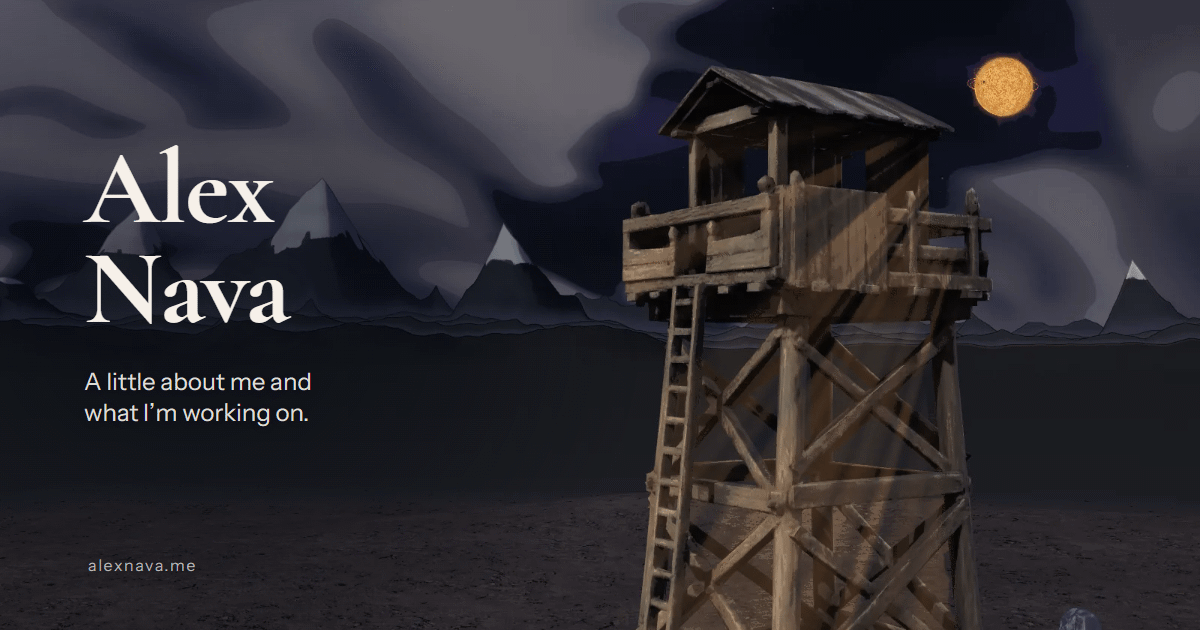
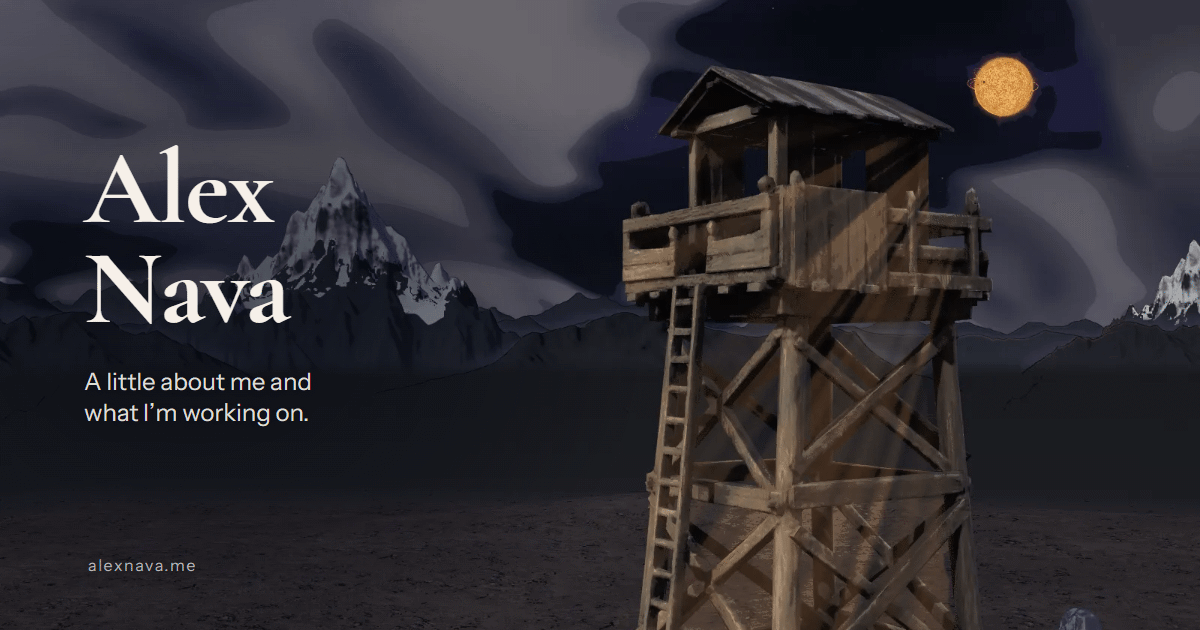
Re-render the share card from the Meshy mountains

diff --git a/tools/og-card.html b/tools/og-card.html
@@ -11,10 +11,10 @@
       --user-data-dir=<scratch>\edge-profile --screenshot=<scratch>\og-raw.png
       file:///<repo>/tools/og-card.html
     magick <scratch>\og-raw.png -alpha off -kmeans 224 -unique-colors <scratch>\og-pal.png
-    magick <scratch>\og-raw.png -alpha off -dither FloydSteinberg -define dither:diffusion-amount=65%
+    magick <scratch>\og-raw.png -alpha off -dither FloydSteinberg -define dither:diffusion-amount=57%
       -remap <scratch>\og-pal.png -strip -define png:compression-level=9 PNG8:public/og.png
   The dither hides the palette's banding in the night's gradients: use the largest amount that
-  keeps the file at or under 300 KB (65% gave 297 KB; each 5% adds about 5 KB). test/hosting.test.mjs
+  keeps the file at or under 300 KB (57% gave 298 KB with the Meshy mountains; each 5% adds about 5 to 10 KB). test/hosting.test.mjs
   holds public/og.png opaque, exactly 1200x630 and at most 300 KB. Re-scrape it with LinkedIn Post
   Inspector after the release.
 -->

diff --git a/docs/ASSETS.md b/docs/ASSETS.md
@@ -92,9 +92,9 @@ The tower and tree are required: without either the scene returns to the title c
 | `icon-192.png`          |   9,005 | 192×192   | RGBA                                          |
 | `icon-512.png`          |  26,321 | 512×512   | RGBA                                          |
 | `icon-maskable-512.png` |  13,398 | 512×512   | Opaque RGB                                    |
-| `og.png`                | 296,546 | 1200×630  | Share card; opaque, 224-colour palette        |
+| `og.png`                | 298,263 | 1200×630  | Share card; opaque, 224-colour palette        |
 
-`tools/og-card-backdrop.webp` (66,370 bytes, 1600×900, opaque) is the share card's backdrop: a still of the live scene's opening shot, The watch, with every page layer but the canvas hidden. It is never published (`test/hosting.test.mjs`, `test/bundle-output.test.mjs`).
+`tools/og-card-backdrop.webp` (71,560 bytes, 1600×900, opaque) is the share card's backdrop: a still of the live scene's opening shot, The watch, with every page layer but the canvas hidden. It is never published (`test/hosting.test.mjs`, `test/bundle-output.test.mjs`).
 
 ## Sources
 
@@ -126,7 +126,7 @@ Only the share card is generated in the repository. Everything else is committed
 | Scene entry and the chunks it imports statically        | under 820 KiB, exactly two files                   |                  | `bundle-output`: "scene bundle stays under the deferred-payload budget"                                     |
 | Paper grain, paper edge and the three vignettes         | 200 KiB (204,800)                                  | 182,994          | `markup-accessibility`: "three distinct transparent paper vignettes share the 200 KiB section-paper budget" |
 | Both estate maps                                        | 200 KiB (204,800)                                  | 193,610          | `bundle-output`: "estate map artwork is hashed, responsive and under 200 KiB combined"                      |
-| `public/og.png`                                         | opaque, exactly 1200×630, at most 300 KB (300,000) | 296,546          | `hosting`: "the share image is an opaque 1200x630 PNG of at most 300 KB, as its tags say"                   |
+| `public/og.png`                                         | opaque, exactly 1200×630, at most 300 KB (300,000) | 298,263          | `hosting`: "the share image is an opaque 1200x630 PNG of at most 300 KB, as its tags say"                   |
 
 Lazy scene chunks are outside the script budget. Script sizes change with every build; `npm run build:dist` prints them.
 
